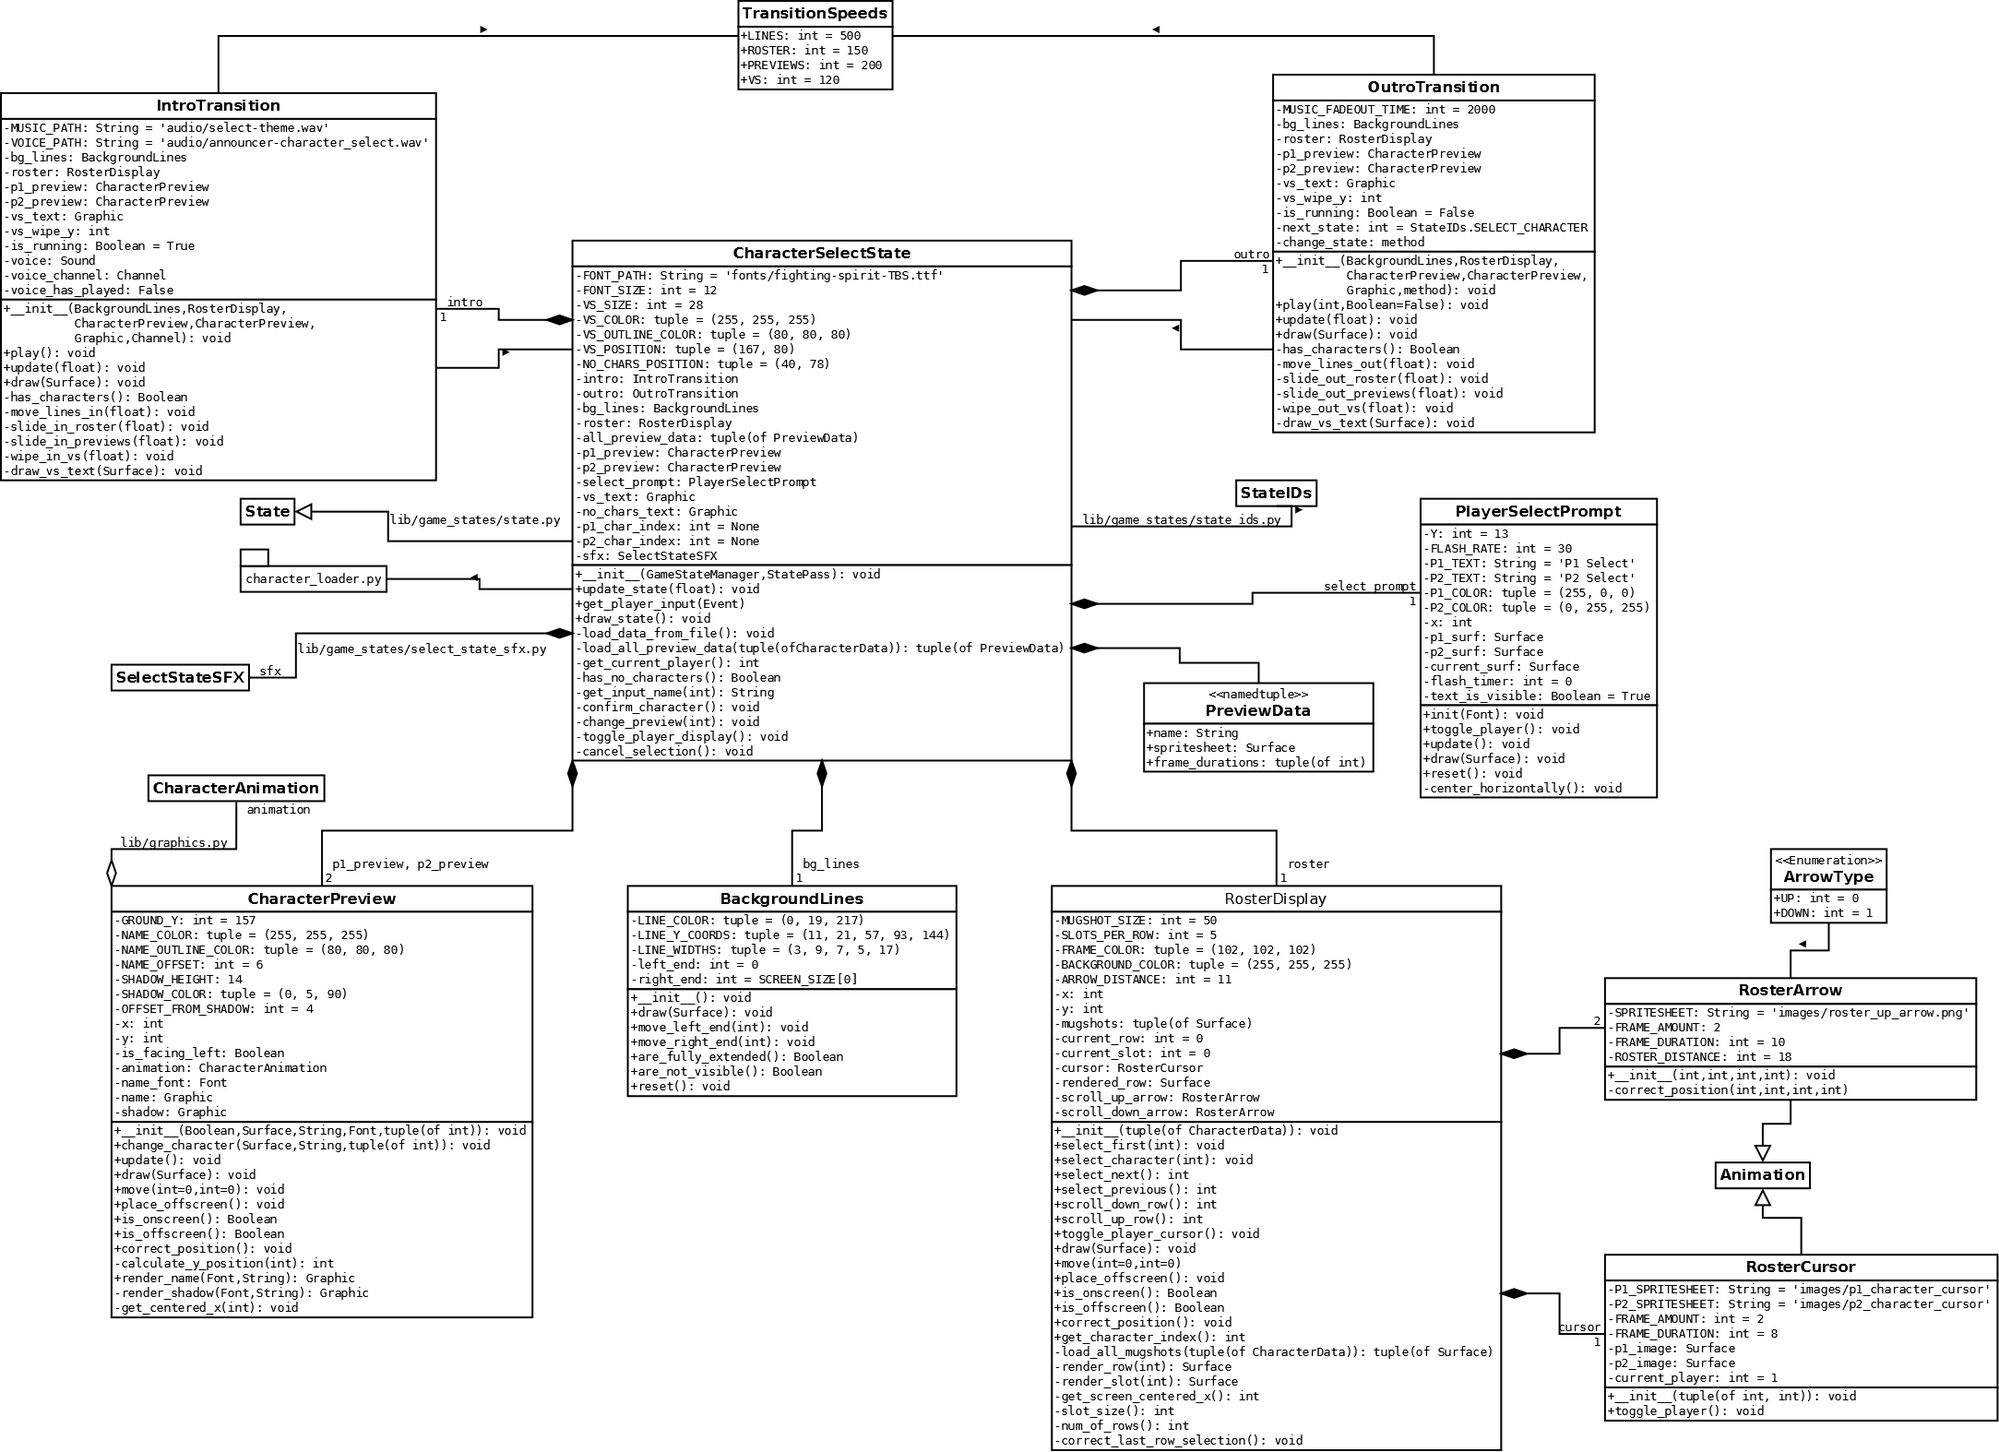
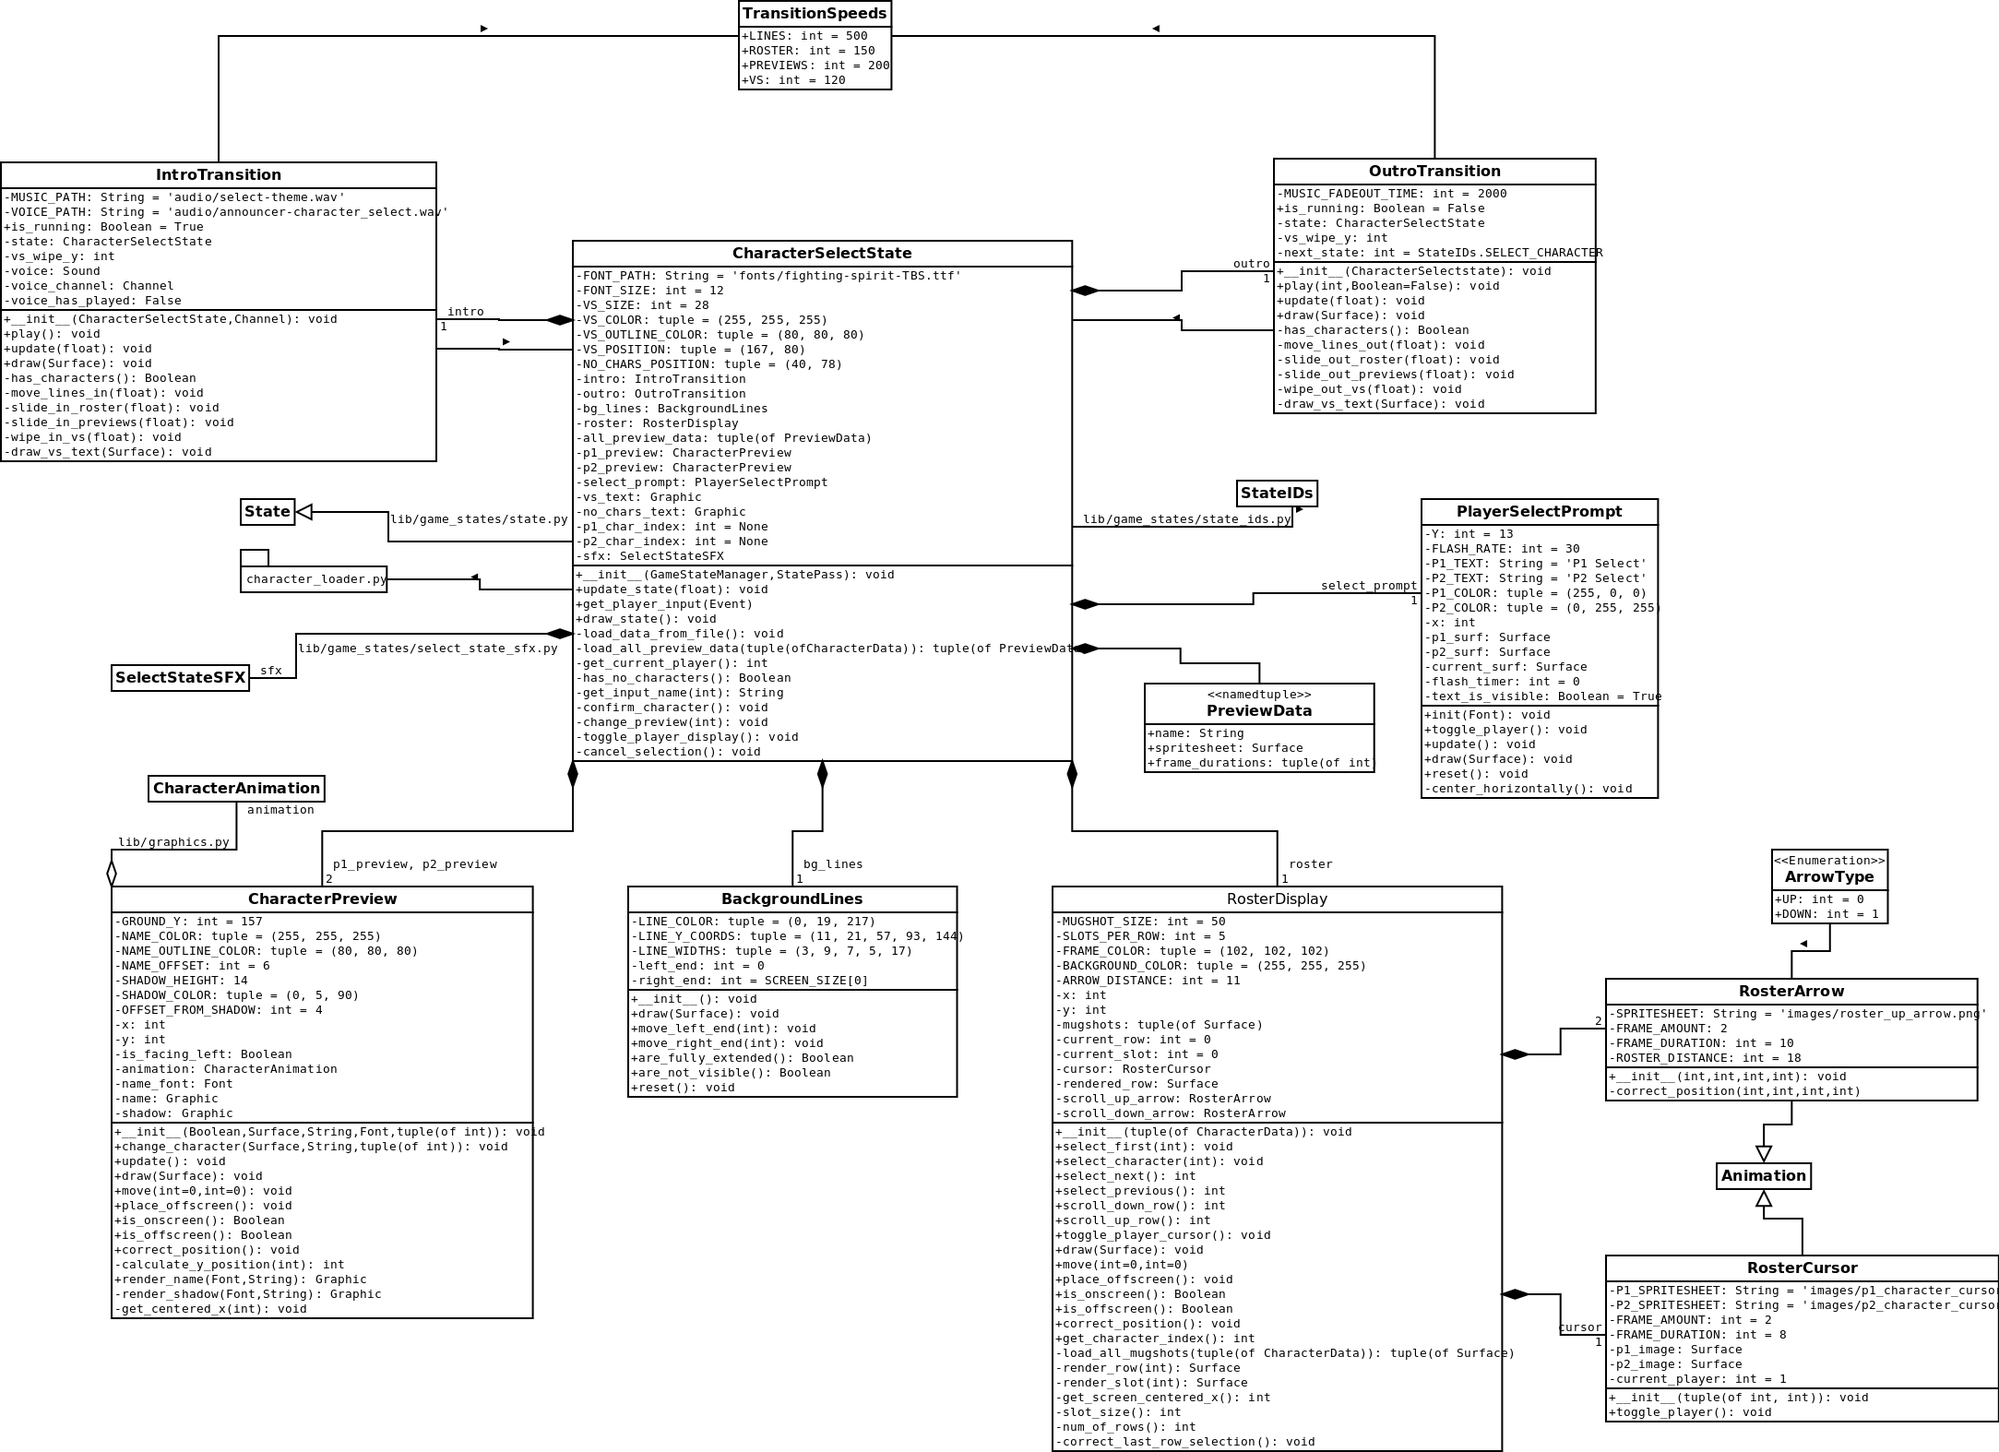
Pass CharacterSelectState directly to Transitions
Since the Transitions modify the CharacterSelectState's attributes
directly, it's less of a hassle -- and much less verbose -- to just
store a direct reference to the CharacterSelectState as attributes
within the Transitions themselves. This cuts down on all of the
repetitive reference attributes in those Transitions as well.

Giving the Transitions complete access to the State's members will
also prove useful in a future commit.

diff --git a/lib/game_states/character_select_state.py b/lib/game_states/character_select_state.py
@@ -113,13 +113,9 @@ class CharacterSelectState(State):
             wiped_in_text = self.no_chars_text
         else:
             wiped_in_text = self.vs_text
-        self.intro = IntroTransition(self.bg_lines, self.roster,
-                                     self.p1_preview, self.p2_preview,
-                                     wiped_in_text,
+        self.intro = IntroTransition(self,
                                      self.state_pass.announcer_channel)
-        self.outro = OutroTransition(self.bg_lines, self.roster,
-                                     self.p1_preview, self.p2_preview,
-                                     wiped_in_text, self.change_state)
+        self.outro = OutroTransition(self)
         self.intro.play()
 
     def load_data_from_file(self):
@@ -403,11 +399,7 @@ class IntroTransition(object):
             clip.
 
     Attributes:
-        bg_lines: The CharacterSelectState's BackgroundLines.
-        roster: The CharacterSelectState's RosterDisplay.
-        p1_preview: The CharacterPreview for Player 1.
-        p2_preview: The CharacterPreview for Player 2.
-        vs_text: A Surface containing text that reads VS.
+        state: The CharacterSelectState that will be animated.
         vs_wipe_y: An integer for the top end of the wipe in effect,
             relative to the VS text Surface.
         voice: A PyGame Sound that plays the announcer voice clip.
@@ -419,50 +411,32 @@ class IntroTransition(object):
     MUSIC_PATH = 'audio/select-theme.wav'
     VOICE_PATH = 'audio/announcer-character_select.wav'
 
-    def __init__(self, bg_lines, roster, p1_preview, p2_preview, vs_text,
-                 voice_channel):
+    def __init__(self, state, voice_channel):
         """Declare and initialize instance variables.
 
         Args:
-            bg_lines: BackgroundLines that will be drawn onto
-                CharacterSelectState's Surface.
-            roster: The RosterDisplay containing all characters.
-            p1_preview: The CharacterPreview for player 1.
-            p2_preview: The CharacterPreview for player 2.
-            vs_text: A Graphic containing text that reads VS.
+            state (CharacterSelectState): The State that will be
+                animated.
             voice_channel: A PyGame Channel used for playing announcer
                 voice clips.
         """
-        self.bg_lines = bg_lines
-        self.roster = roster
-        self.p1_preview = p1_preview
-        self.p2_preview = p2_preview
-        self.vs_text = vs_text
-        self.vs_wipe_y = vs_text.rect.height
+        self.state = state
+        self.vs_wipe_y = self.state.vs_text.rect.height
         self.is_running = False
         self.voice = pygame.mixer.Sound(self.VOICE_PATH)
         self.voice_channel = voice_channel
         self.voice_has_played = False
-
-    def has_characters(self):
-        """Return a Boolean indicating whether at least one playable
-        character is included in the game.
-        """
-        if self.p1_preview is not None and self.p2_preview is not None:
-            return True
-        else:
-            return False
 
     def play(self):
         """Begin running the intro animation."""
         self.is_running = True
         pygame.mixer.music.load(self.MUSIC_PATH)
         pygame.mixer.music.play(-1)
-        self.bg_lines.move_right_end(-1 * SCREEN_SIZE[0])
-        self.roster.place_offscreen()
-        if self.has_characters():
-            self.p1_preview.place_offscreen()
-            self.p2_preview.place_offscreen()
+        self.state.bg_lines.move_right_end(-1 * SCREEN_SIZE[0])
+        self.state.roster.place_offscreen()
+        if not self.state.has_no_characters():
+            self.state.p1_preview.place_offscreen()
+            self.state.p2_preview.place_offscreen()
 
     def update(self, time):
         """Update the intro animation.
@@ -471,18 +445,21 @@ class IntroTransition(object):
             time: A float for time elapsed, in seconds, since the last
                 update cycle.
         """
-        if self.p1_preview is not None and self.p2_preview is not None:
-            self.p1_preview.update()
-            self.p2_preview.update()
+        if (self.state.p1_preview is not None and
+             self.state.p2_preview is not None):
+            self.state.p1_preview.update()
+            self.state.p2_preview.update()
 
-        if not self.bg_lines.are_fully_extended():
+        if not self.state.bg_lines.are_fully_extended():
             self.move_lines_in(time)
 
-        elif not self.has_characters() and not self.roster.is_onscreen():
+        elif (self.state.has_no_characters() and
+              not self.state.roster.is_onscreen()):
             self.slide_in_roster(time)
-        elif self.has_characters() and not (self.p1_preview.is_onscreen() and
-                                            self.p2_preview.is_onscreen() and
-                                            self.roster.is_onscreen()):
+        elif not self.state.has_no_characters() and not (
+                self.state.p1_preview.is_onscreen() and
+                self.state.p2_preview.is_onscreen() and
+                self.state.roster.is_onscreen()):
             self.slide_in_roster(time)
             self.slide_in_previews(time)
 
@@ -503,10 +480,10 @@ class IntroTransition(object):
                 update cycle.
         """
         distance = TransitionSpeeds.LINES * time
-        self.bg_lines.move_right_end(distance)
+        self.state.bg_lines.move_right_end(distance)
 
-        if self.bg_lines.are_fully_extended():
-            self.bg_lines.reset()
+        if self.state.bg_lines.are_fully_extended():
+            self.state.bg_lines.reset()
 
     def slide_in_roster(self, time):
         """Slide the roster into the screen from the bottom edge.
@@ -516,10 +493,10 @@ class IntroTransition(object):
                 update cycle.
         """
         distance = -1 * TransitionSpeeds.ROSTER * time
-        self.roster.move(dy=distance)
+        self.state.roster.move(dy=distance)
 
-        if self.roster.is_onscreen():
-            self.roster.correct_position()
+        if self.state.roster.is_onscreen():
+            self.state.roster.correct_position()
 
     def slide_in_previews(self, time):
         """Slide both CharacterPreviews into the screen from the left
@@ -531,15 +508,15 @@ class IntroTransition(object):
         """
         distance = TransitionSpeeds.PREVIEWS * time
 
-        if not self.p1_preview.is_onscreen():
-            self.p1_preview.move(distance)
-            if self.p1_preview.is_onscreen():
-                self.p1_preview.correct_position()
+        if not self.state.p1_preview.is_onscreen():
+            self.state.p1_preview.move(distance)
+            if self.state.p1_preview.is_onscreen():
+                self.state.p1_preview.correct_position()
 
-        if not self.p2_preview.is_onscreen():
-            self.p2_preview.move(-1 * distance)
-            if self.p2_preview.is_onscreen():
-                self.p2_preview.correct_position()
+        if not self.state.p2_preview.is_onscreen():
+            self.state.p2_preview.move(-1 * distance)
+            if self.state.p2_preview.is_onscreen():
+                self.state.p2_preview.correct_position()
 
     def wipe_in_vs(self, time):
         """Move the upper bound of the VS text's draw region in order
@@ -563,11 +540,11 @@ class IntroTransition(object):
         """
         pygame.draw.rect(parent_surf, (0, 0, 0),
                          Rect(0, 0, SCREEN_SIZE[0], SCREEN_SIZE[1]))
-        self.bg_lines.draw(parent_surf)
-        self.roster.draw(parent_surf)
-        if self.has_characters():
-            self.p1_preview.draw(parent_surf)
-            self.p2_preview.draw(parent_surf)
+        self.state.bg_lines.draw(parent_surf)
+        self.state.roster.draw(parent_surf)
+        if not self.state.has_no_characters():
+            self.state.p1_preview.draw(parent_surf)
+            self.state.p2_preview.draw(parent_surf)
         self.draw_vs_text(parent_surf)
 
     def draw_vs_text(self, parent_surf):
@@ -580,9 +557,14 @@ class IntroTransition(object):
             parent_surf: The PyGame Surface upon which the VS text will
                 be drawn.
         """
-        draw_region = Rect(0, 0, self.vs_text.rect.width,
-                           self.vs_text.rect.height - self.vs_wipe_y)
-        self.vs_text.draw(parent_surf, region=draw_region)
+        if self.state.has_no_characters():
+            draw_region = Rect(0, 0, self.state.no_chars_text.rect.width,
+                self.state.no_chars_text.rect.height - self.vs_wipe_y)
+            self.state.no_chars_text.draw(parent_surf, region=draw_region)
+        else:
+            draw_region = Rect(0, 0, self.state.vs_text.rect.width,
+                self.state.vs_text.rect.height - self.vs_wipe_y)
+            self.state.vs_text.draw(parent_surf, region=draw_region)
 
 
 class OutroTransition(object):
@@ -600,46 +582,28 @@ class OutroTransition(object):
             milliseconds, to fade out the Select Screen music.
 
     Attributes:
-        bg_lines: The CharacterSelectState's BackgroundLines.
-        roster: The CharacterSelectState's RosterDisplay.
-        p1_preview: The CharacterPreview for Player 1.
-        p2_preview: The CharacterPreview for Player 2.
-        vs_text: A Surface containing text that reads VS.
+        state: The CharacterSelectState that will be animated.
         vs_wipe_y: An integer for the top end of the wipe out effect,
             relative to the VS text Surface.
         is_running: A Boolean indicating whether the outro is currently
             running.
-        next_state: An integer for the index of the Game State to run
-            once the outro finishes. See the StateIDs enum for possible
-            values.
-        change_state: A method that changes game processing to another
-            Game State.
+        next_state: An enum value representing the next Game State to
+            run after this animation is completed. See the state_ids
+            module for possible values.
     """
     MUSIC_FADEOUT_TIME = 2000
 
-    def __init__(self, bg_lines, roster, p1_preview, p2_preview, vs_text,
-                 change_state):
+    def __init__(self, state):
         """Declare and initialize instance variables.
 
         Args:
-            bg_lines: BackgroundLines that will be drawn onto
-                CharacterSelectState's Surface.
-            roster: The RosterDisplay containing all characters.
-            p1_preview: The CharacterPreview for Player 1.
-            p2_preview: The CharacterPreview for Player 2.
-            vs_text: A Surface containing text that reads VS.
-            change_state: A method that changes game processing to
-                another Game State.
+            state (CharacterSelectState): The State that this object
+                will animate.
         """
-        self.bg_lines = bg_lines
-        self.roster = roster
-        self.p1_preview = p1_preview
-        self.p2_preview = p2_preview
-        self.vs_text = vs_text
-        self.vs_wipe_y = vs_text.rect.height
+        self.state = state
+        self.vs_wipe_y = self.state.vs_text.rect.height
         self.next_state = StateIDs.SELECT_CHARACTER
         self.is_running = False
-        self.change_state = change_state
 
     def play(self, next_state, music_will_fade=False):
         """Start playing the outro animation.
@@ -656,15 +620,6 @@ class OutroTransition(object):
         if music_will_fade:
             pygame.mixer.music.fadeout(self.MUSIC_FADEOUT_TIME)
 
-    def has_characters(self):
-        """Return a Boolean indicating whether at least one playable
-        character could be loaded into the game.
-        """
-        if self.p1_preview is not None and self.p2_preview is not None:
-            return True
-        else:
-            return False
-
     def update(self, time):
         """Update the outro animation.
 
@@ -672,26 +627,29 @@ class OutroTransition(object):
             time: A float for the amount of time elapsed, in seconds,
                 since the last update.
         """
-        if self.has_characters():
-            self.p1_preview.update()
-            self.p2_preview.update()
+        if not self.state.has_no_characters():
+            self.state.p1_preview.update()
+            self.state.p2_preview.update()
 
+        # Start of animation sequence.
         if self.vs_wipe_y > 0:
             self.wipe_out_vs(time)
 
-        elif not self.has_characters() and not self.roster.is_offscreen():
+        elif (self.state.has_no_characters() and
+              not self.state.roster.is_offscreen()):
             self.slide_out_roster(time)
-        elif self.has_characters() and not (self.p1_preview.is_offscreen() and
-                                            self.p2_preview.is_offscreen() and
-                                            self.roster.is_offscreen()):
+        elif (not self.state.has_no_characters() and
+              not (self.state.p1_preview.is_offscreen() and
+                   self.state.p2_preview.is_offscreen() and
+                   self.state.roster.is_offscreen())):
             self.slide_out_roster(time)
             self.slide_out_previews(time)
 
-        elif not self.bg_lines.are_not_visible():
+        elif not self.state.bg_lines.are_not_visible():
             self.move_lines_out(time)
 
         else:
-            self.change_state(self.next_state)
+            self.state.change_state(self.next_state)
 
     def move_lines_out(self, time):
         """Scroll the lines out of the screen, from left to right.
@@ -700,7 +658,7 @@ class OutroTransition(object):
             time: A float for the amount of time elapsed, in seconds,
                 since the last update.
         """
-        self.bg_lines.move_left_end(TransitionSpeeds.LINES * time)
+        self.state.bg_lines.move_left_end(TransitionSpeeds.LINES * time)
 
     def slide_out_roster(self, time):
         """Slide the roster in the direction of the bottom edge of the
@@ -710,7 +668,7 @@ class OutroTransition(object):
             time: A float for the amount of time elapsed, in seconds,
                 since the last update.
         """
-        self.roster.move(dy=(TransitionSpeeds.ROSTER * time))
+        self.state.roster.move(dy=(TransitionSpeeds.ROSTER * time))
 
     def slide_out_previews(self, time):
         """Slide the CharacterPreviews out toward either side of the
@@ -720,8 +678,8 @@ class OutroTransition(object):
             time: A float for the amount of time elapsed, in seconds,
                 since the last update.
         """
-        self.p1_preview.move(dx=(-1 * TransitionSpeeds.PREVIEWS * time))
-        self.p2_preview.move(dx=(TransitionSpeeds.PREVIEWS * time))
+        self.state.p1_preview.move(dx=(-1 * TransitionSpeeds.PREVIEWS * time))
+        self.state.p2_preview.move(dx=(TransitionSpeeds.PREVIEWS * time))
 
     def wipe_out_vs(self, time):
         """Move the lower bound of the VS text's draw region upward in
@@ -743,11 +701,11 @@ class OutroTransition(object):
             parent_surf: The PyGame Surface upon which the various
                 graphics will be drawn.
         """
-        self.bg_lines.draw(parent_surf)
-        self.roster.draw(parent_surf)
-        if self.has_characters():
-            self.p1_preview.draw(parent_surf)
-            self.p2_preview.draw(parent_surf)
+        self.state.bg_lines.draw(parent_surf)
+        self.state.roster.draw(parent_surf)
+        if not self.state.has_no_characters():
+            self.state.p1_preview.draw(parent_surf)
+            self.state.p2_preview.draw(parent_surf)
         self.draw_vs_text(parent_surf)
 
     def draw_vs_text(self, parent_surf):
@@ -759,8 +717,14 @@ class OutroTransition(object):
             parent_surf: The Surface ipon which the VS text will be
                 drawn.
         """
-        draw_region = Rect(0, 0, self.vs_text.rect.width, self.vs_wipe_y)
-        self.vs_text.draw(parent_surf, region=draw_region)
+        if self.state.has_no_characters():
+            draw_region = Rect(0, 0, self.state.no_chars_text.rect.width,
+                               self.vs_wipe_y)
+            self.state.no_chars_text.draw(parent_surf, region=draw_region)
+        else:
+            draw_region = Rect(0, 0, self.state.vs_text.rect.width,
+                               self.vs_wipe_y)
+            self.state.vs_text.draw(parent_surf, region=draw_region)
 
 
 class PlayerSelectPrompt(object):
